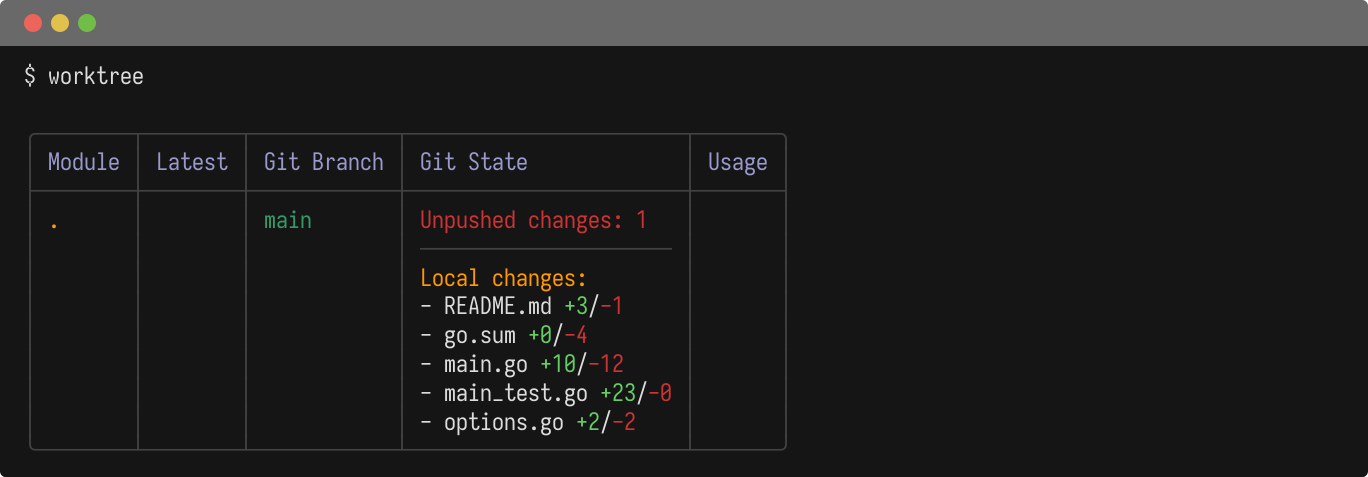
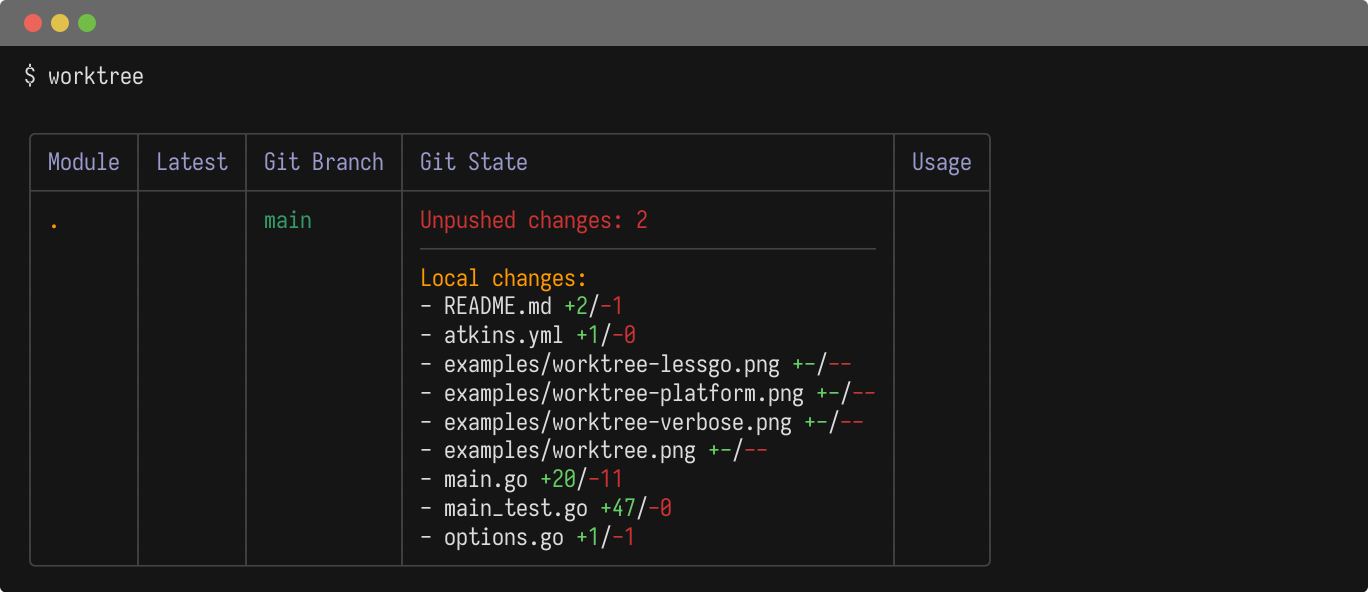
worktree: add verbose flag, check update/tidy execution

diff --git a/worktree/main.go b/worktree/main.go
@@ -2,6 +2,7 @@ package main
 
 import (
 	"fmt"
+	"io"
 	"log"
 	"os"
 	"os/exec"
@@ -308,7 +309,7 @@ func main() {
 		if len(goModPaths) == 0 {
 			log.Fatalf("dependency updates require a go.work or go.mod")
 		}
-		updateDeps(goModPaths, latestTags)
+		updateDeps(goModPaths, latestTags, opts.Verbose)
 		return
 	}
 
@@ -334,16 +335,14 @@ func isSubpath(parent, child string) bool {
 	return rel == "." || (!filepath.IsAbs(rel) && !strings.HasPrefix(rel, ".."+string(filepath.Separator)) && rel != "..")
 }
 
-func updateDeps(modPaths map[string]string, tags latestTags) {
+func updateDeps(modPaths map[string]string, tags latestTags, verbose bool) {
 	for modPath, dir := range modPaths {
 		modShort := filepath.Base(modPath)
 
 		fmt.Printf("Updating %s (go get -u ./...)\n", modShort)
 		cmd := exec.Command("go", "get", "-u", "./...")
 		cmd.Dir = dir
-		cmd.Stdout = os.Stdout
-		cmd.Stderr = os.Stderr
-		if err := cmd.Run(); err != nil {
+		if err := runCommand(cmd, verbose, os.Stdout, os.Stderr); err != nil {
 			log.Printf("  go get -u failed in %s: %v", modPath, err)
 		}
 
@@ -355,9 +354,7 @@ func updateDeps(modPaths map[string]string, tags latestTags) {
 					fmt.Printf("Updating %s: %s %s -> %s\n", modShort, filepath.Base(r.path), r.version, tag)
 					cmd := exec.Command("go", "get", r.path+"@"+tag)
 					cmd.Dir = dir
-					cmd.Stdout = os.Stdout
-					cmd.Stderr = os.Stderr
-					if err := cmd.Run(); err != nil {
+					if err := runCommand(cmd, verbose, os.Stdout, os.Stderr); err != nil {
 						log.Printf("  go get %s@%s failed: %v", r.path, tag, err)
 					}
 				}
@@ -367,12 +364,24 @@ func updateDeps(modPaths map[string]string, tags latestTags) {
 		fmt.Printf("Tidying %s\n", modShort)
 		cmd = exec.Command("go", "mod", "tidy")
 		cmd.Dir = dir
-		cmd.Stdout = os.Stdout
-		cmd.Stderr = os.Stderr
-		if err := cmd.Run(); err != nil {
+		if err := runCommand(cmd, verbose, os.Stdout, os.Stderr); err != nil {
 			log.Printf("  go mod tidy failed in %s: %v", modPath, err)
 		}
 	}
+}
+
+func runCommand(cmd *exec.Cmd, verbose bool, stdout, stderr io.Writer) error {
+	cmd.Stdout = stdout
+	cmd.Stderr = stderr
+	err := cmd.Run()
+	if verbose {
+		fmt.Fprintf(stdout, "$ %s", strings.Join(cmd.Args, " "))
+		if err == nil {
+			fmt.Fprintf(stdout, " %s✓%s", components.ColorGreen, components.ColorReset)
+		}
+		fmt.Fprintln(stdout)
+	}
+	return err
 }
 
 func pullRepos(dirs []string) {

diff --git a/worktree/main_test.go b/worktree/main_test.go
@@ -1,12 +1,17 @@
 package main
 
 import (
+	"bytes"
 	"flag"
 	"io"
 	"os"
+	"os/exec"
 	"path/filepath"
 	"reflect"
+	"strings"
 	"testing"
+
+	"github.com/titpetric/tools/worktree/components"
 )
 
 func TestParseOptionsUpdateAllModules(t *testing.T) {
@@ -27,6 +32,48 @@ func TestParseOptionsUpdateAllModules(t *testing.T) {
 	}
 	if opts.FilterPath != "" || opts.FilterArg != "" {
 		t.Fatalf("ParseOptions() treated ./... as a filter: %#v", opts)
+	}
+}
+
+func TestParseOptionsVerbose(t *testing.T) {
+	originalArgs := os.Args
+	originalFlags := flag.CommandLine
+	t.Cleanup(func() {
+		os.Args = originalArgs
+		flag.CommandLine = originalFlags
+	})
+
+	os.Args = []string{"worktree", "-v"}
+	flag.CommandLine = flag.NewFlagSet("worktree", flag.ContinueOnError)
+	flag.CommandLine.SetOutput(io.Discard)
+
+	if opts := ParseOptions(); !opts.Verbose {
+		t.Fatal("ParseOptions() did not enable verbose output")
+	}
+}
+
+func TestRunCommandVerboseSuccess(t *testing.T) {
+	var output bytes.Buffer
+	cmd := exec.Command("go", "version")
+	if err := runCommand(cmd, true, &output, &output); err != nil {
+		t.Fatal(err)
+	}
+
+	want := "$ go version " + components.ColorGreen + "✓" + components.ColorReset + "\n"
+	if !strings.HasSuffix(output.String(), want) {
+		t.Fatalf("runCommand() output = %q, want suffix %q", output.String(), want)
+	}
+}
+
+func TestRunCommandVerboseFailureHasNoCheckmark(t *testing.T) {
+	var output bytes.Buffer
+	cmd := exec.Command("go", "definitely-not-a-command")
+	if err := runCommand(cmd, true, &output, &output); err == nil {
+		t.Fatal("runCommand() unexpectedly succeeded")
+	}
+
+	if got, want := output.String(), "$ go definitely-not-a-command\n"; !strings.HasSuffix(got, want) {
+		t.Fatalf("runCommand() output = %q, want suffix %q", got, want)
 	}
 }
 

diff --git a/worktree/options.go b/worktree/options.go
@@ -40,7 +40,7 @@ func ParseOptions() *Options {
 	flag.BoolVar(&opts.All, "all", false, "include all modules (default: skip modules without releases/changes)")
 	flag.BoolVar(&opts.PUML, "puml", false, "output PlantUML dependency diagram to stdout")
 	flag.BoolVar(&opts.D2, "d2", false, "output D2 dependency diagram to stdout")
-	flag.BoolVar(&opts.Verbose, "v", false, "verbose output: show module column and dependency lists")
+	flag.BoolVar(&opts.Verbose, "v", false, "verbose output: show module details and commands run during updates")
 	flag.Parse()
 
 	// Resolve optional path filter

diff --git a/worktree/README.md b/worktree/README.md
@@ -32,7 +32,8 @@ worktree /abs/path   # show modules matching an absolute path
 
 Several flags invoke tool functionality:
 
-- `-v` gives a detailed verbose view with extra data,
+- `-v` gives a detailed verbose view with extra data; with `-u`, it also prints
+  each `go get` and `go mod tidy` command and marks successful commands with a green check,
 - `-u` updates every dependency in each selected Go module with `go get -u ./...`,
   updates workspace dependencies to their latest tags, and runs `go mod tidy`.
   Use `worktree -u ./...` to update every Go module under the workspace root,
